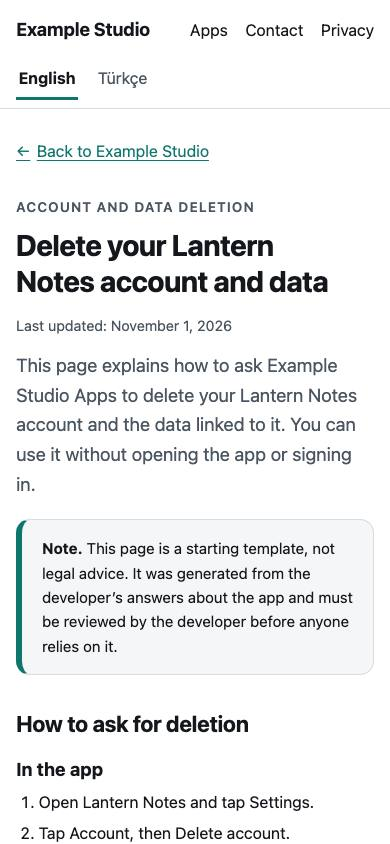
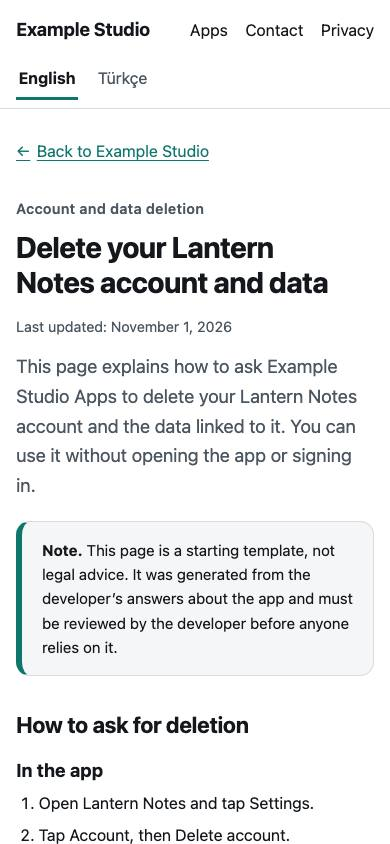
Fix no-accounts and no-apps builds, drop the notice toggle, tighten device-only wording
- Next.js rejects an empty generateStaticParams() with output export, so a
  site with no app that has accounts (or no apps) failed to build. Such a
  route now generates one placeholder page that postbuild removes.
- The review note on policy pages is always shown; the config switch is gone.
- Device-only policies no longer say nothing leaves the app when SDKs, ads
  or Google Play purchases are involved (en and tr).
- Tests: sharing and collection wording follow the practices; screenshots
  spec survives a config without apps; placeholder removal is covered.
- Eyebrow text is no longer force-capitalised (Turkish casing of brand names).

diff --git a/e2e/screenshots.spec.ts b/e2e/screenshots.spec.ts
@@ -1,20 +1,21 @@
 import { test } from "@playwright/test";
-import { accountApps, apps, defaultLocale } from "./helpers";
+import { accountApps, apps, defaultLocale, locales } from "./helpers";
 
 // Full-page captures for a visual check: SCREENSHOTS=1 npx playwright test e2e/screenshots.spec.ts
 // Output goes to qa/screenshots/ (git-ignored).
 test.skip(!process.env.SCREENSHOTS, "set SCREENSHOTS=1 to capture");
 
-const app = accountApps[0] ?? apps[0];
+const app = accountApps[0] ?? apps[0]; // undefined when the config lists no apps
+const hasTr = (locales as readonly string[]).includes("tr");
 const SIZES = { desktop: { width: 1280, height: 900 }, mobile: { width: 390, height: 844 } } as const;
 
 for (const [name, size] of Object.entries(SIZES)) {
   const shots: [string, string][] = [
     ["home", `/${defaultLocale}`],
-    ["app-privacy", `/${defaultLocale}/apps/${app.id}/privacy`],
-    ...(app.practices.hasAccount ? ([["delete-account", `/${defaultLocale}/apps/${app.id}/delete-account`]] as [string, string][]) : []),
-    ["home-tr", "/tr"],
-    ...(app.practices.hasAccount ? ([["delete-account-tr", `/tr/apps/${app.id}/delete-account`]] as [string, string][]) : []),
+    ...(app ? ([["app-privacy", `/${defaultLocale}/apps/${app.id}/privacy`]] as [string, string][]) : []),
+    ...(app?.practices.hasAccount ? ([["delete-account", `/${defaultLocale}/apps/${app.id}/delete-account`]] as [string, string][]) : []),
+    ...(hasTr ? ([["home-tr", "/tr"]] as [string, string][]) : []),
+    ...(app?.practices.hasAccount && hasTr ? ([["delete-account-tr", `/tr/apps/${app.id}/delete-account`]] as [string, string][]) : []),
     ["not-found", `/${defaultLocale}/nope`],
   ];
   for (const [label, url] of shots) {
@@ -37,8 +38,9 @@ test.describe("README pictures", () => {
   });
 
   test("README delete page", async ({ page }) => {
+    test.skip(!app?.practices.hasAccount, "needs an app with accounts");
     await page.setViewportSize(SIZES.mobile);
-    await page.goto(`/${defaultLocale}/apps/${app.id}/delete-account`, { waitUntil: "networkidle" });
+    await page.goto(`/${defaultLocale}/apps/${app?.id}/delete-account`, { waitUntil: "networkidle" });
     await page.screenshot({ path: "docs/screenshots/delete-account-mobile.jpg", type: "jpeg", quality: 72 });
   });
 });

diff --git a/e2e/policies.spec.ts b/e2e/policies.spec.ts
@@ -42,19 +42,19 @@ test.describe("app privacy policies", () => {
 
         // the review note
         const notice = page.getByTestId("template-notice");
-        if (config.showTemplateNotice) {
-          await expect(notice).toBeVisible();
-          await expect(notice).toContainText(m.legal.templateNotice);
-        } else {
-          await expect(notice).toHaveCount(0);
-        }
+        await expect(notice).toBeVisible();
+        await expect(notice).toContainText(m.legal.templateNotice);
         const updated = new Intl.DateTimeFormat(locale, { dateStyle: "long", timeZone: "UTC" }).format(new Date(`${config.policyLastUpdated}T00:00:00Z`));
         await expect(page.locator(".meta")).toContainText(updated);
 
         // storage
+        const otherParties = p.sdks.length > 0 || p.ads !== false || p.payments;
         if (p.storage === "device-only") {
           expect(text).toContain(m.policy.short.deviceOnly);
-          expect(text).toContain(m.policy.sharing.none);
+          const collect = otherParties ? m.policy.collect.deviceOnlyServices : m.policy.collect.deviceOnly;
+          expect(text).toContain(collect.replace("{app}", app.name));
+          // "nothing is shared" only when no SDK, ad network or purchase flow is involved
+          expect(text).toContain(otherParties ? m.policy.sharing.some : m.policy.sharing.none);
         } else {
           expect(text).toContain(m.policy.short.server);
           expect(text).toContain(m.policy.security.body);

diff --git a/app/[locale]/apps/[app]/delete-account/page.tsx b/app/[locale]/apps/[app]/delete-account/page.tsx
@@ -3,7 +3,7 @@ import { notFound } from "next/navigation";
 import { getTranslations, setRequestLocale } from "next-intl/server";
 import { Doc } from "@/components/Doc";
 import { PageShell } from "@/components/PageShell";
-import { appsWithAccounts, findApp, hasLegal, legalLocales, locales, paths, site, type Locale } from "@/lib/config";
+import { appsWithAccounts, findApp, hasLegal, legalLocales, locales, nonEmpty, paths, site, type Locale } from "@/lib/config";
 import { buildDeletePage } from "@/lib/delete-page";
 import { pageMetadata, withStudio } from "@/lib/metadata";
 
@@ -13,7 +13,7 @@ import { pageMetadata, withStudio } from "@/lib/metadata";
 export const dynamicParams = false;
 
 export function generateStaticParams() {
-  return legalLocales.flatMap((locale) => appsWithAccounts.map((app) => ({ locale, app: app.id })));
+  return nonEmpty(legalLocales.flatMap((locale) => appsWithAccounts.map((app) => ({ locale, app: app.id }))));
 }
 
 type Props = { params: Promise<{ locale: Locale; app: string }> };

diff --git a/app/[locale]/apps/[app]/privacy/page.tsx b/app/[locale]/apps/[app]/privacy/page.tsx
@@ -3,7 +3,7 @@ import { notFound } from "next/navigation";
 import { getTranslations, setRequestLocale } from "next-intl/server";
 import { Doc } from "@/components/Doc";
 import { PageShell } from "@/components/PageShell";
-import { apps, findApp, hasLegal, legalLocales, locales, paths, site, type Locale } from "@/lib/config";
+import { apps, findApp, hasLegal, legalLocales, locales, nonEmpty, paths, site, type Locale } from "@/lib/config";
 import { pageMetadata, withStudio } from "@/lib/metadata";
 import { buildAppPolicy } from "@/lib/policy";
 
@@ -11,7 +11,7 @@ import { buildAppPolicy } from "@/lib/policy";
 export const dynamicParams = false;
 
 export function generateStaticParams() {
-  return legalLocales.flatMap((locale) => apps.map((app) => ({ locale, app: app.id })));
+  return nonEmpty(legalLocales.flatMap((locale) => apps.map((app) => ({ locale, app: app.id }))));
 }
 
 type Props = { params: Promise<{ locale: Locale; app: string }> };

diff --git a/lib/config.ts b/lib/config.ts
@@ -40,6 +40,19 @@ export function hasAccount(app: App): boolean {
 
 export const appsWithAccounts: readonly App[] = apps.filter(hasAccount);
 
+/** App id of the one throw-away page generated when a route would otherwise have no pages (see `nonEmpty`). */
+export const PLACEHOLDER_APP = "_unused";
+
+/**
+ * Next.js refuses an empty generateStaticParams() with output "export", which
+ * happens for the delete-account route when no app has accounts (or for the
+ * privacy route when there are no apps). In that case one placeholder page is
+ * generated instead: it renders the 404 view, and scripts/postbuild.mjs deletes it.
+ */
+export function nonEmpty(params: { locale: Locale; app: string }[]): { locale: Locale; app: string }[] {
+  return params.length > 0 ? params : [{ locale: defaultLocale, app: PLACEHOLDER_APP }];
+}
+
 /** Route builders; one place for every internal URL. */
 export const paths = {
   home: (l: Locale) => `/${l}`,

diff --git a/lib/policy.tsx b/lib/policy.tsx
@@ -44,7 +44,10 @@ export async function buildAppPolicy(app: App, locale: Locale): Promise<AppPolic
   // --- Information handled ---
   const collect: Section["blocks"] = [];
   if (!server) {
-    collect.push({ kind: "p", content: t("collect.deviceOnly", { app: app.name }) });
+    // third parties (SDKs, ads, Google Play purchases) handle some information on their own,
+    // so the "nothing leaves the device" wording is only used when none are involved
+    const key = thirdParties || p.payments ? "collect.deviceOnlyServices" : "collect.deviceOnly";
+    collect.push({ kind: "p", content: t(key, { app: app.name }) });
     collect.push({ kind: "p", content: t("collect.deviceBackup") });
   } else {
     if (p.hasAccount) {

diff --git a/components/Doc.tsx b/components/Doc.tsx
@@ -70,11 +70,9 @@ export async function Doc({
         {intro ? <p className="lede">{intro}</p> : null}
       </header>
 
-      {site.showTemplateNotice ? (
-        <div className="notice" role="note" data-testid="template-notice">
-          <strong>{t("templateNoticeLabel")}.</strong> {t("templateNotice")}
-        </div>
-      ) : null}
+      <div className="notice" role="note" data-testid="template-notice">
+        <strong>{t("templateNoticeLabel")}.</strong> {t("templateNotice")}
+      </div>
 
       {summary && summary.length > 0 ? (
         <section className="short" aria-labelledby="in-short">

diff --git a/e2e/postbuild.spec.ts b/e2e/postbuild.spec.ts
@@ -72,3 +72,13 @@ test("fails when an app without accounts has a delete-account page", () => {
     expect(r.out).toContain(`unexpected delete-account page for ${app.id}`);
   });
 });
+
+test("removes the placeholder page Next.js needs for a route with no pages", () => {
+  withCopy((dir) => {
+    const placeholder = path.join(dir, locales[0], "apps", "_unused");
+    fs.mkdirSync(placeholder, { recursive: true });
+    fs.writeFileSync(path.join(placeholder, "delete-account.html"), "<p>404</p>");
+    expect(postbuild(dir).code).toBe(0);
+    expect(fs.existsSync(placeholder)).toBe(false);
+  });
+});

diff --git a/site.config.ts b/site.config.ts
@@ -80,12 +80,6 @@ const config: SiteConfig<Locale> = {
   /** "Last updated" date on every policy, YYYY-MM-DD. Change it whenever you change a policy or an app's answers. */
   policyLastUpdated: "2026-11-01",
 
-  /**
-   * Shows the note "starting template, not legal advice, review it" on every
-   * policy page. Keep it true until you (or a lawyer) have reviewed the text.
-   */
-  showTemplateNotice: true,
-
   // --- Apps ----------------------------------------------------------------
   //
   // One entry per app. The `practices` block is a checklist about what the

diff --git a/lib/types.ts b/lib/types.ts
@@ -182,7 +182,5 @@ export interface SiteConfig<L extends string> {
   hosting: Hosting;
   /** ISO date (YYYY-MM-DD) shown as "Last updated" on every policy. Change it whenever you change a policy. */
   policyLastUpdated: string;
-  /** Show the "starting template, not legal advice" note on policy pages. Keep true until you have reviewed the text. */
-  showTemplateNotice: boolean;
   apps: AppConfig<L>[];
 }

diff --git a/app/globals.css b/app/globals.css
@@ -223,10 +223,9 @@ button:focus-visible {
 .eyebrow {
   margin: 0 0 0.6rem;
   color: var(--muted);
-  font-size: 0.85rem;
+  font-size: 0.9rem;
   font-weight: 600;
-  letter-spacing: 0.08em;
-  text-transform: uppercase;
+  letter-spacing: 0.02em;
 }
 
 .lede {

diff --git a/README.md b/README.md
@@ -22,7 +22,7 @@ English and Turkish are included in full. Another language is one new messages f
 - **Free hosting.** Netlify's free tier is the main target. GitHub Pages and Cloudflare Pages work too.
 - **Small.** Four runtime dependencies (`next`, `next-intl`, `react`, `react-dom`), system fonts, plain CSS, about 1 MB of output, a build of a few seconds.
 
-> **The generated policy text is a starting template, not legal advice.** It is written from your answers and says nothing you did not tell it, but you must read it, check it against what your apps really do, and have it reviewed if the stakes call for it. Every policy page says so until you switch the note off (see [Review the text](#review-the-text)).
+> **The generated policy text is a starting template, not legal advice.** It is written from your answers and says nothing you did not tell it, but you must read it, check it against what your apps really do, and have it reviewed if the stakes call for it. Every policy page says so (see [Review the text](#review-the-text)).
 
 ## What Google Play requires, and which page covers it
 
@@ -90,7 +90,7 @@ The policy names no specific law. It uses neutral wording ("depending on where y
 
 ### Review the text
 
-Read every generated page (`npm run dev` shows them all). Every policy page carries a visible note: *starting template, not legal advice, the developer must review it*. After you have reviewed the text (or had it reviewed), set `showTemplateNotice: false` in `site.config.ts` to hide the note, and set `policyLastUpdated` to the date you finished. Change `policyLastUpdated` again whenever you change a policy or an app's answers.
+Read every generated page (`npm run dev` shows them all). Every policy page carries a visible note: *starting template, not legal advice, the developer must review it*. It is part of the template (the wording is `legal.templateNotice` in `messages/*.json`). Once you have reviewed the text, or had it reviewed, set `policyLastUpdated` to the date you finished, and change it again whenever you change a policy or an app's answers.
 
 Things the template does **not** cover, so check them yourself: apps aimed at children (Play's Families rules), the exact data your SDKs collect (read their documentation), the Play Console **Data safety** form (its answers must match your policy), and any law that applies to you specifically.
 
@@ -217,7 +217,7 @@ docs/                GitHub Pages workflow, screenshots
 - **Hızlı başlangıç:** "Use this template" ile kendi deponuzu oluşturun, `npm install`, `site.config.ts` dosyasını kendi bilgilerinizle doldurun, `npm run build`, ardından `out/` klasörünü yayınlayın. Örnek değerler ("Example Studio" gibi) dosyada kaldığı sürece derleme bilinçli olarak hata verir.
 - **Ücretsiz yayın:** Netlify (önerilen), GitHub Pages veya Cloudflare Pages. GitHub Pages ve Cloudflare Pages'te dil yönlendirmesi çalışmaz; kök sayfa dil seçimi sunar.
 - **Alan adı doğrulama:** Kurumsal Play hesapları için zorunlu, kişisel hesaplar için önerilir. Search Console'da "Domain" özelliği ekleyin, verilen `google-site-verification=...` TXT kaydını DNS sağlayıcınıza ekleyin ve "Verify" düğmesine basın.
-- **Önemli uyarı:** Üretilen politika metinleri bir başlangıç şablonudur, **hukuki tavsiye değildir**. Metni uygulamanızın gerçekte yaptıklarıyla karşılaştırıp kendiniz gözden geçirmelisiniz. İncelemeyi bitirince `showTemplateNotice: false` yapıp `policyLastUpdated` tarihini güncelleyin.
+- **Önemli uyarı:** Üretilen politika metinleri bir başlangıç şablonudur, **hukuki tavsiye değildir**. Metni uygulamanızın gerçekte yaptıklarıyla karşılaştırıp kendiniz gözden geçirmelisiniz. İncelemeyi bitirince `policyLastUpdated` tarihini güncelleyin.
 - **Play Console'a URL yapıştırmadan önce:** yukarıdaki İngilizce kontrol listesini tamamlayın. Gizlilik politikası adresi `https://alan.adiniz/tr/apps/<uygulama-id>/privacy`, hesap silme adresi `https://alan.adiniz/tr/apps/<uygulama-id>/delete-account` biçimindedir.
 
 ## Credit and license
